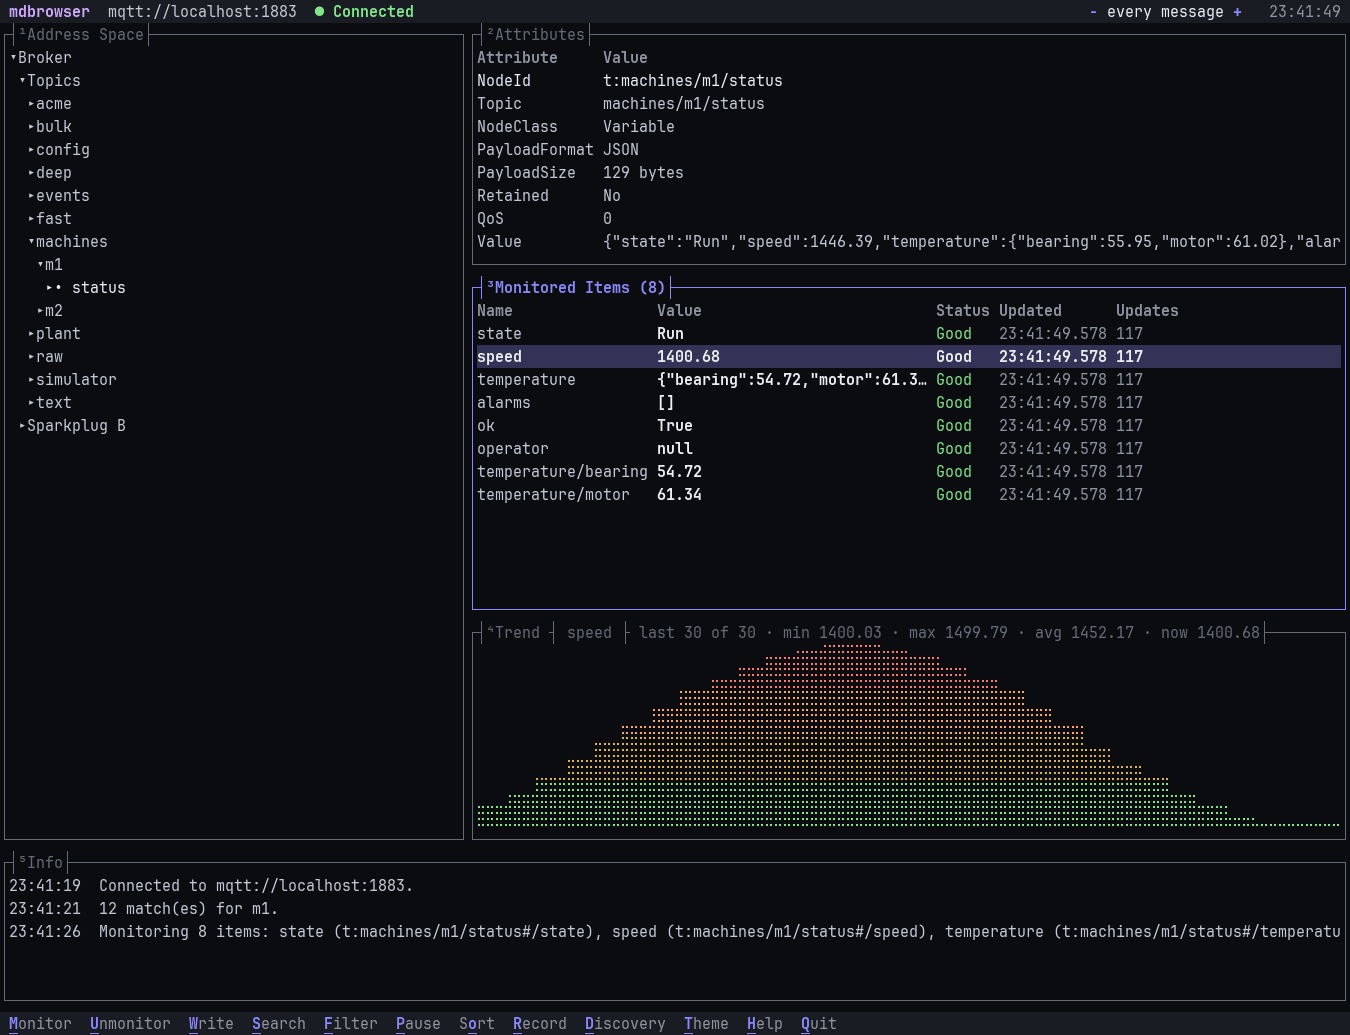
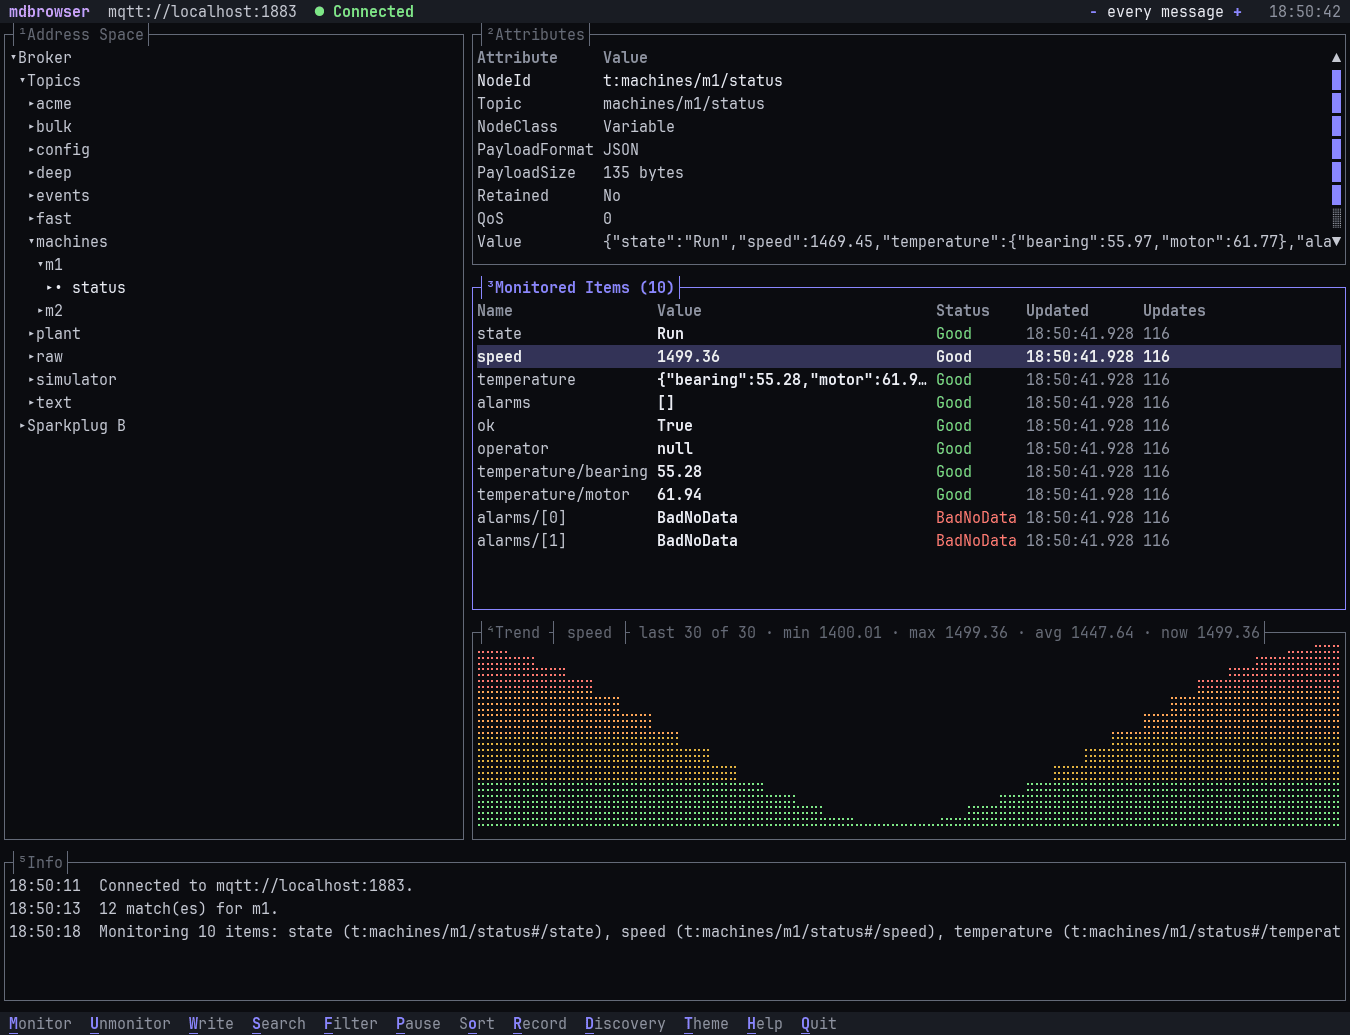
feat(cli): add vertical scrollbars to TUI panes (#177)

diff --git a/tests/MachineDataBrowser.Cli.Tests/TuiScreenTests.cs b/tests/MachineDataBrowser.Cli.Tests/TuiScreenTests.cs
@@ -5,6 +5,7 @@ using Terminal.Gui.Drivers;
 using Terminal.Gui.Input;
 using Terminal.Gui.Testing;
 using Terminal.Gui.Time;
+using Terminal.Gui.ViewBase;
 using Terminal.Gui.Views;
 using Xunit;
 
@@ -57,6 +58,20 @@ public sealed class TuiScreenTests(CustomTypesServerFixture custom) : IAsyncLife
         var selected = TuiApp.PromptScheme().Active;
         Assert.Equal(Theme.Bright, selected.Background);
         Assert.Equal(Theme.Background, selected.Foreground);
+    }
+
+    [Fact]
+    public void Non_tree_panes_enable_automatic_vertical_scrollbars()
+    {
+        var panes = _session!.Tui.Window.SubViews.OfType<FrameView>()
+            .ToDictionary(frame => frame.Title, frame => Assert.Single(frame.SubViews));
+
+        foreach (var title in new[] { "²Attributes", "³Monitored Items", "⁴Trend", "⁵Info" })
+        {
+            var pane = panes[title];
+            Assert.True(pane.ViewportSettings.HasFlag(ViewportSettingsFlags.HasVerticalScrollBar));
+            Assert.Equal(ScrollBarVisibilityMode.Auto, pane.VerticalScrollBar.VisibilityMode);
+        }
     }
 
     /// <summary>Runs timers and the callbacks device work posted back, then draws, until the screen shows what's expected.</summary>

diff --git a/src/MachineDataBrowser.Cli/Tui/TuiApp.cs b/src/MachineDataBrowser.Cli/Tui/TuiApp.cs
@@ -167,6 +167,11 @@ internal sealed class TuiApp : IDisposable
         _log = new ListView { X = 0, Y = 0, Width = Dim.Fill(), Height = Dim.Fill() };
         _log.SetSource(_logLines);
         _logFrame.Add(_log);
+        foreach (var view in new View[] { _attributes, _watch, _chart, _log })
+        {
+            view.ViewportSettings |= ViewportSettingsFlags.HasVerticalScrollBar;
+        }
+
         _panes = [_treeFrame, _attributesFrame, _watchFrame, _chartFrame, _logFrame];
         _window.SetScheme(Theme.Base);
         Theme.Pane(_treeFrame, _tree);

diff --git a/scripts/tui-screenshot.py b/scripts/tui-screenshot.py
@@ -179,7 +179,8 @@ def main() -> None:
         # The status topic of machine m1 and its parts, with status/speed selected for the trend.
         terminal.keys("s", 0.8)
         terminal.keys("m1\r", 2.0)
-        terminal.wait_for("match")
+        # Search results are in the modal table; background log refresh pauses while a dialog is open.
+        terminal.wait_for("temperature")
         terminal.keys("\r", 1.5)
         terminal.wait_for("NodeId")
         terminal.keys("\x1b[C", 1.0)

diff --git a/docs/cli.md b/docs/cli.md
@@ -168,6 +168,7 @@ the main ones and `h` lists them all. Click a pane to focus it. Drag the border 
 to resize them (or `Alt+←`/`→` for the address space, `Alt+↑`/`↓` for the focused pane's border); a
 double-click on a border restores its default size. The sizes and the panes hidden with `1` … `5` are remembered
 per endpoint URL (in `tui-layouts.json` in the data folder, not in the session file); `0` resets the layout.
+Attributes, Monitored Items, Trend and Info show vertical scrollbars when their content extends beyond the pane.
 
 | Key | Does |
 |---|---|
